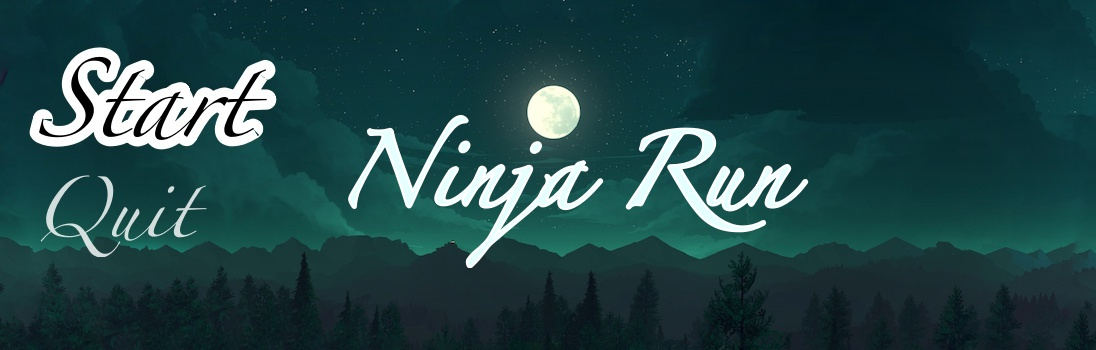
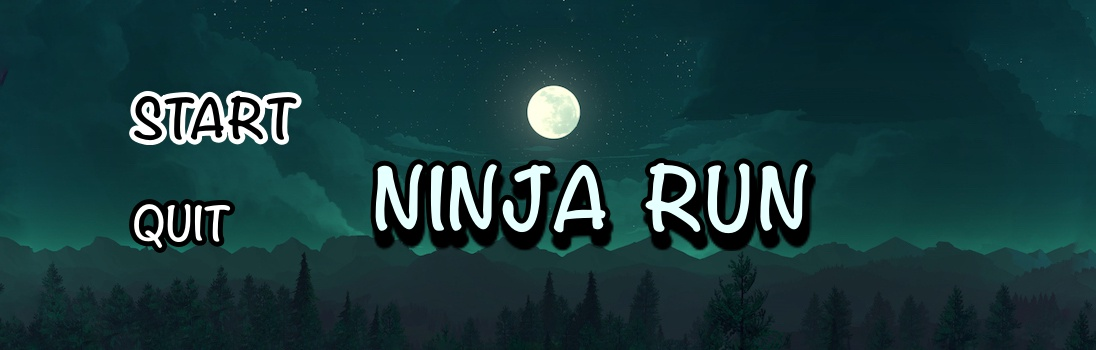
BG

Changed region(s): [[0.3102, 0.3143, 0.7445, 0.7714], [0.0, 0.1143, 0.2792, 0.4286], [0.031, 0.4857, 0.2172, 0.7429]]

diff --git a/src/GameState/PlayState.java b/src/GameState/PlayState.java
@@ -88,29 +88,23 @@ public class PlayState extends GameState{
 		GraphicsContext gc = game.getGraphicsContext2D();
 		gc.setFont(SCORE_TIME_FONT);
 		gc.setFill(Color.WHITE);
-		gc.drawImage(RenderableHolder.bgplay, 0, 0);
+		gc.drawImage(RenderableHolder.bg, 0, 0);
 		//gc.drawImage(RenderableHolder.Cloud1, 1000, 50);
 		if(gameState == this.START_GAME_STATE) {
 			//clouds.draw(game);
 			//bgi.draw(game);
-			gc.fillText(" = HEAL",400 , 140);
-			gc.fillText(" = SPEED",550 , 140);
-			gc.fillText("SPEACE BAR = ATTACK",350 , 180);
-			gc.fillText("RIGHT = INVISIBLE",350 , 220);
-			gc.fillText("UP = JUMP",350 , 260);
-			gc.fillText("DOWN = SPRINT",350 , 300);
-			gc.drawImage(RenderableHolder.Heal, 350, 105);
-			gc.drawImage(RenderableHolder.Speed, 520, 105);
+			gc.drawImage(RenderableHolder.bg, 0, 0);
 			land.draw(game);
 			ninja.draw(game);
 		}
 		if(gameState == this.GAME_PLAYING_STATE) {
+			gc.drawImage(RenderableHolder.bgplay, 0, 0);
 			clouds.draw(game);
 			bgi.draw(game);
 			land.draw(game);
-			gc.fillText("Health"+ninja.getHealth(),800 , 80);
-			gc.fillText("Score " + ninja.score, 800, 40);
-			gc.fillText("Chakra", 30, 40);
+			gc.fillText(""+ ninja.getHealth(),920 , 80);
+			gc.fillText(""+ ninja.score, 900, 40);
+			//gc.fillText("Chakra", 30, 40);
 			gc.strokeRect(30, 50, 150, 10);
 			gc.setFill(Color.DARKCYAN);
 			gc.fillRect(30, 50, 150-ninja.warpCoolDown*15, 10);
@@ -135,7 +129,7 @@ public class PlayState extends GameState{
 		// TODO Auto-generated method stub
 		switch (gameState) {
 		case START_GAME_STATE :
-			if (Keys.isPressed(Keys.UP)) {
+			if (Keys.anyKeyPress()) {
 				gameState = GAME_PLAYING_STATE;
 				ninja.jump();
 				ninja.isStart = true;

diff --git a/src/SharedObject/RenderableHolder.java b/src/SharedObject/RenderableHolder.java
@@ -98,7 +98,8 @@ public class RenderableHolder {
 
 	public static Image pausebg;
 
-	public static Image pausescroll;
+	public static Image pausescroll1;
+	public static Image pausescroll2;
 
 	public static AudioClip warpSound;
 	
@@ -125,7 +126,8 @@ public class RenderableHolder {
 		String Logo = "file:Resources/Logo/GT.png";
 		String BGmenu = "file:Resources/bg/bgmenu.jpg";
 		String bgpause = "file:Resources/bg/bgpjpg";
-		String BG3 = "file:Resources/Map/bgplay.jpg";
+		String BG = "file:Resources/Map/bgplaystart.jpg";
+		String BG1 = "file:Resources/Map/bgplay1.jpg";
 		String Land = "file:Resources/bg/bg1.png";
 		String BGmenu1 = "file:Resources/bg/bgmenu1.jpg";
 		String BGmenu2 = "file:Resources/bg/bgmenu2.jpg";
@@ -182,15 +184,17 @@ public class RenderableHolder {
 		String boom = "file:Resources/smoke/boom.png";
 
 		logo = new Image(Logo);
-		bg = new Image(BGmenu);
+		bg = new Image(BG);
 		bg1 = new Image(BGmenu1);
 		bg2 = new Image(BGmenu2);
-		bgplay = new Image(BG3);
+		bgplay = new Image(BG1);
 		fire = new Image(onfire);
 		land1 = new Image(Land);
 		pausebg = new Image(bgpause);
-		String scrollp =  "file:Resources/bg/puase.png";
-		pausescroll = new Image(scrollp );
+		String scrollp1 =  "file:Resources/bg/puase1.png";
+		pausescroll1 = new Image(scrollp1);
+		String scrollp2 =  "file:Resources/bg/puase2.png";
+		pausescroll2 = new Image(scrollp2 );
 		Ultimate = new Image(ultimate);
 		UltimateReady = new Image(ultimateready);
 		

diff --git a/src/GameState/PauseState.java b/src/GameState/PauseState.java
@@ -29,24 +29,14 @@ public class PauseState extends GameState {
 		if(currentOption == 0) {
 			gc.setFill(Color.BLACK);
 			//gc.fillRect(300, 50, 400, 200);
-			gc.drawImage(RenderableHolder.pausescroll, 300, 50);
-			gc.setFill(Color.BLACK);
-			gc.fillText("-",380,150);
-			gc.fillText("ESC = RESUME", 400, 120);
-			gc.fillText("RESTART", 400, 160);
-			gc.fillText("MENU", 400, 190);
+			gc.drawImage(RenderableHolder.pausescroll1, 300, 50);
+
 		}
 		else if(currentOption == 1) {
 			gc.setFill(Color.BLACK);
 			//gc.fillRect(300, 50, 400, 200);
-			gc.drawImage(RenderableHolder.pausescroll, 300, 50);
-			gc.setFill(Color.BLACK);
-			gc.fillText("-",380,180);
-			gc.fillText("ESC = RESUME", 400, 120);
-			gc.fillText("RESTART", 400, 160);
-			gc.fillText("MENU", 400, 190);
-		}
-		
+			gc.drawImage(RenderableHolder.pausescroll2, 300, 50);
+		}	
 	}
 
 	public void update() {
@@ -68,11 +58,13 @@ public class PauseState extends GameState {
 			//JukeBox.play("menuoption");
 			currentOption++;
 			currentOption= currentOption%options.length;
+			RenderableHolder.collect.play();
 		}
 		if(Keys.isPressed(Keys.UP)) {
 			//JukeBox.play("menuoption");
 			currentOption--;
 			currentOption= (-1)*(currentOption%options.length);
+			RenderableHolder.collect.play();
 		}
 		if(Keys.isPressed(Keys.ENTER)) {
 			//JukeBox.play("collect");

diff --git a/src/GameState/MenuState.java b/src/GameState/MenuState.java
@@ -68,7 +68,6 @@ public class MenuState extends GameState {
 	}
 	public void addKeyEventHandler() {
 		if(Keys.isPressed(Keys.DOWN) ) {
-			//JukeBox.play("menuoption");
 			RenderableHolder.collect.play();
 			currentOption++;
 			currentOption= currentOption%options.length;
@@ -79,7 +78,6 @@ public class MenuState extends GameState {
 			currentOption= (-1)*(currentOption%options.length);
 		}
 		if(Keys.isPressed(Keys.ENTER) || Keys.isPressed(Keys.SPACE)) {
-			//JukeBox.play("collect");
 			selectOption();
 			RenderableHolder.ninjaSound.play();
 		}

diff --git a/src/Manager/ObjectsManager.java b/src/Manager/ObjectsManager.java
@@ -102,7 +102,7 @@ public class ObjectsManager {
 		int type = rand.nextInt(11);
 		//int type = 7;
 		if(type >4 && type <=7) {
-			gap+= rand.nextInt(10)*100;
+			gap+= rand.nextInt(20)*100;
 			return new Bird(ninja, gap);
 		} else if (type <=4) {
 			return new Obstruct(ninja, gap);

diff --git a/src/Object/Ninja.java b/src/Object/Ninja.java
@@ -225,6 +225,7 @@ public class Ninja {
 	 }
 	 
 	 
+	 
 	 public void dead(boolean isDeath) {
 			if(isDeath) {
 				state = DEATH;
